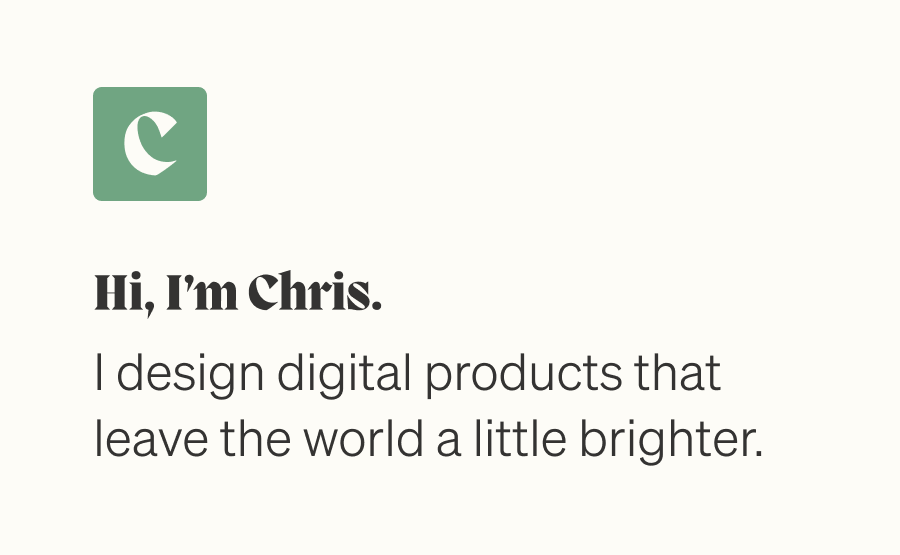
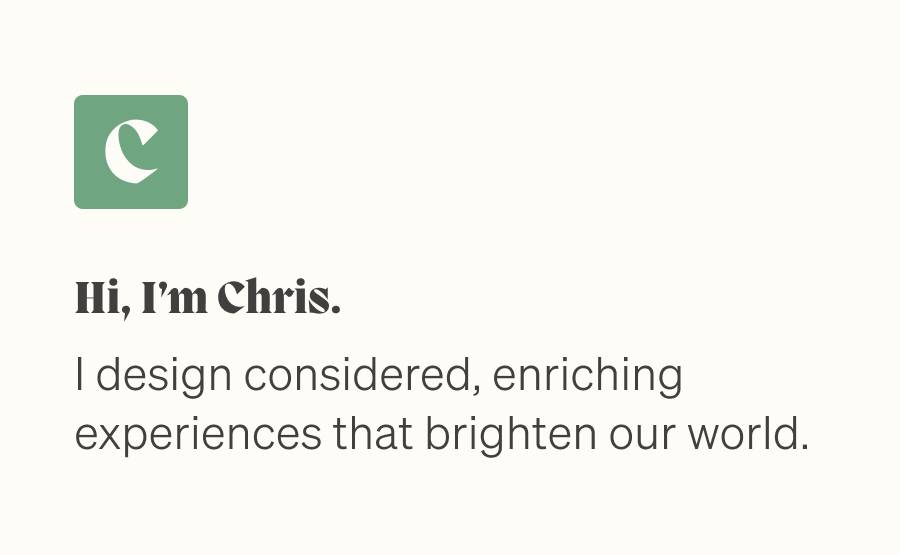
updated metadata description

diff --git a/index.html b/index.html
@@ -11,7 +11,7 @@
   <title>Chris Bubnov</title>
   <meta charset="UTF-8">
   <meta name="viewport" content="width=device-width, initial-scale=1, shrink-to-fit=no">
-  <meta name="description" content="Hi, I'm Chris. I strategically design digital products to brighten our world.">
+  <meta name="description" content="Hi, I'm Chris. I collaborate with partners to design considered, enriching experiences that brighten our world.">
   <meta name="author" content="Chris Bubnov">
   <meta name="keywords" content="Chris,Bubnov,Product,Design,Portfolio">
   <meta property="og:title" content="Chris Bubnov • Digital Product Designer" />
@@ -20,7 +20,7 @@
   <meta property="og:image" content="https://chrisbubnov.com/img/hero-bg.png" />
   <meta property="og:image:alt" content="A snippet of text introducing Chris Bubnov's portfolio site." />
   <meta property="og:description"
-    content="Hi, I'm Chris. I strategically design digital products to brighten our world." />
+    content="Hi, I'm Chris. I collaborate with partners to design considered, enriching experiences that brighten our world." />
   <meta name="viewport" content="width=device-width, initial-scale=1, shrink-to-fit=no">
   <link rel="icon" href="favicon.png">
   <link rel="apple-touch-icon" href="/apple-touch-icon.png" />
@@ -66,9 +66,9 @@
               <!-- <p class="homeSummary-heading">I strategically design digital products to brighten our world. Currently
                 building and learning at <a class="about-link link link-dark" href="https://dbs.com" target="_blank">DBS Bank</a>.
               </p> -->
-              <p class="homeSummary-heading">I collaborate with partners to design considered, enriching experiences. Currently at <a class="about-link link link-dark" href="https://dbs.com" target="_blank">DBS Bank</a>. 
-                To chat, just <a class="about-link link link-dark" href="mailto:bubnovchris@gmail.com"
-                target="_blank">reach out</a>.
+              <p class="homeSummary-heading">I collaborate with partners to design considered, enriching experiences that brighten our world. Currently at <a class="about-link link link-dark" href="https://dbs.com" target="_blank">DBS Bank</a>. 
+                <!-- To chat, just <a class="about-link link link-dark" href="mailto:bubnovchris@gmail.com"
+                target="_blank">reach out</a>. -->
 
               </p>
               <!-- <p class="homeSummary-heading">Currently at <a class="about-link link link-dark" href="https://dbs.com" target="_blank">DBS Bank</a>. 
